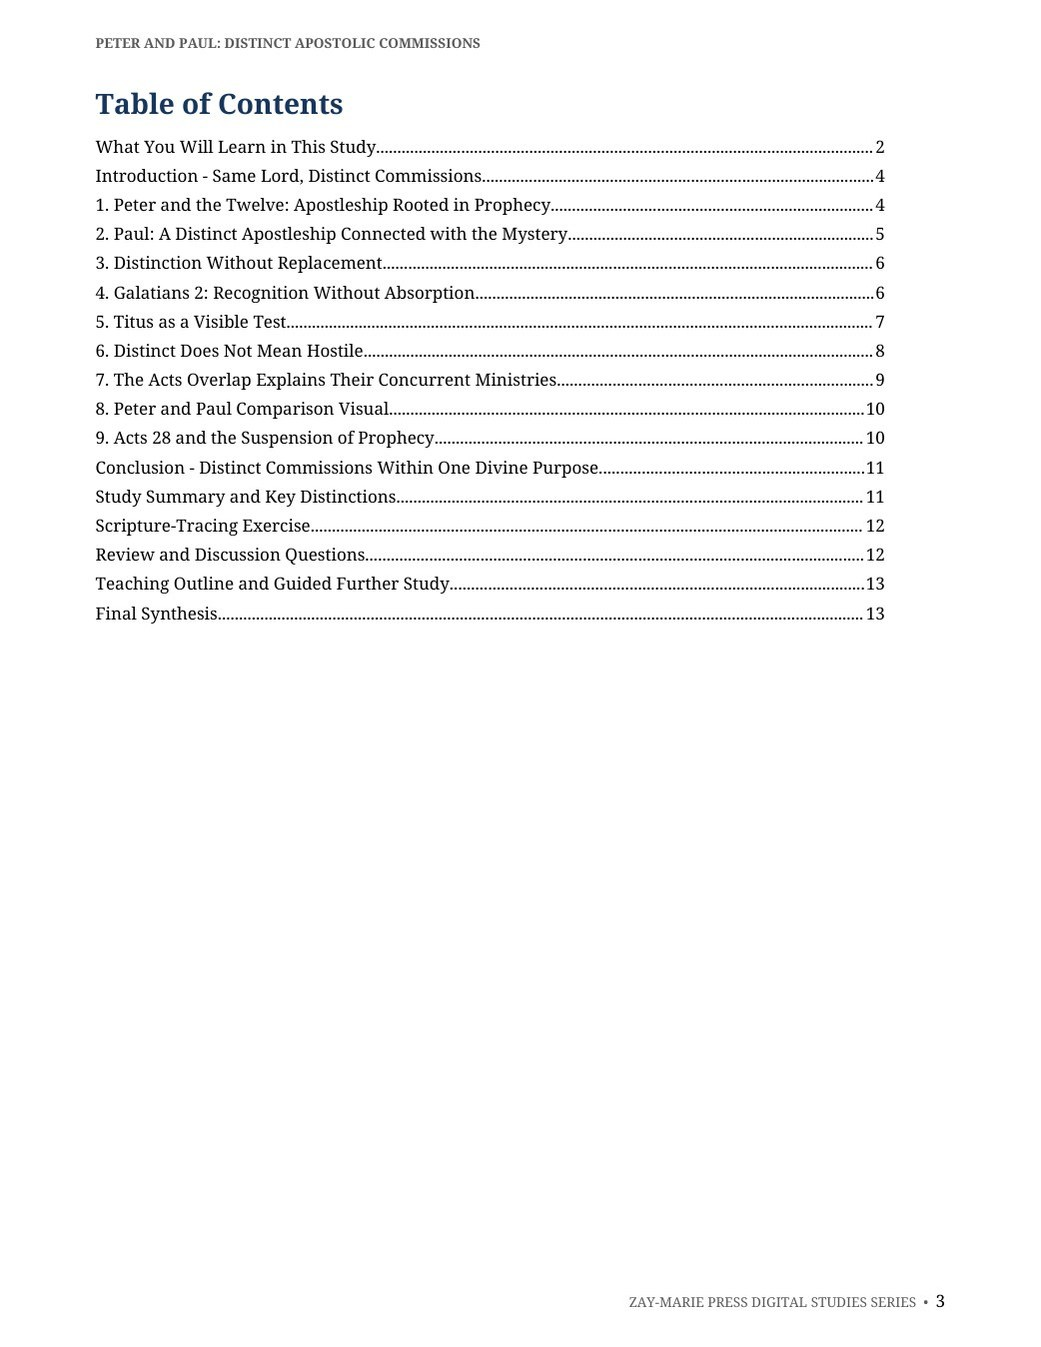
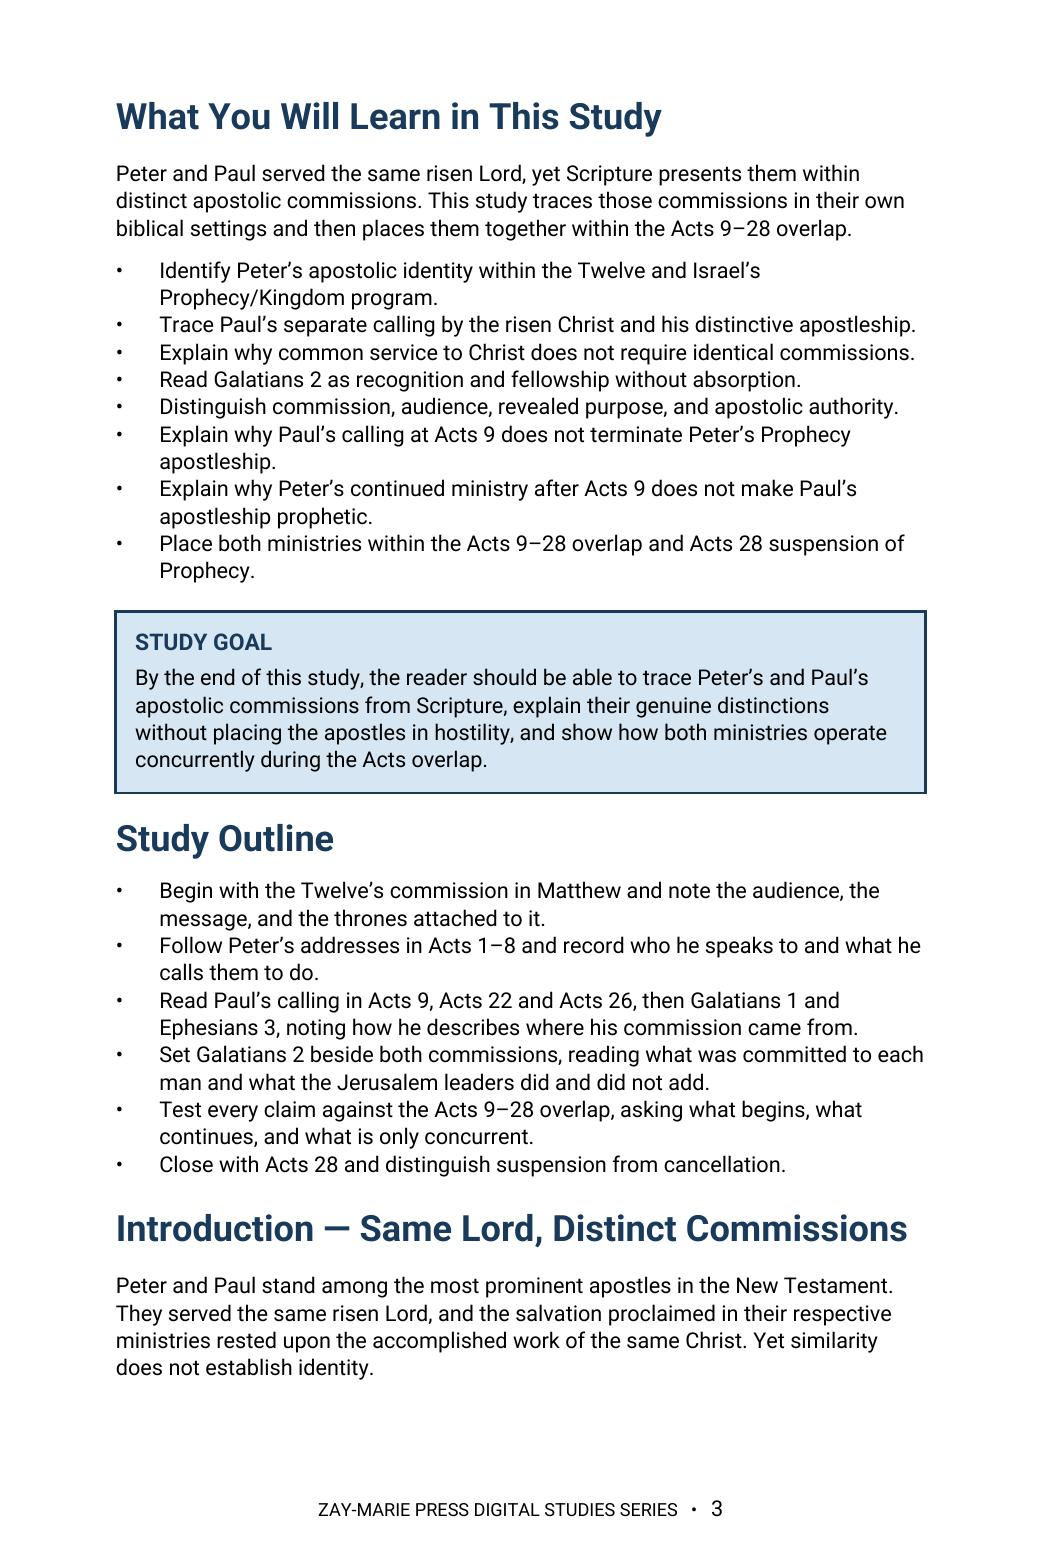
Study 18: rebuild to Master Standard v1.30 (Roboto, 18 pages by publisher exception); cover title reduced 25%; preview strip re-cut to three cards; site.js page count 18; tracker v1.42
Claude-Session: https://claude.ai/code/session_01TLNFW47XCW6YAMUxScR3v4

diff --git a/study-18-peter-and-paul-distinct-apostolic-commissions.html b/study-18-peter-and-paul-distinct-apostolic-commissions.html
@@ -647,39 +647,7 @@
           <p class="preview-instruction">
             Click any page to enlarge it for reading.
           </p>
-          <div class="preview-grid">
-            <div class="preview-card"><a class="preview-image-link" data-preview-lightbox href="assets/study-18-page-3.jpg"><img src="assets/study-18-page-3.jpg" alt="Study 18 interior preview — page 3, table of contents"/></a><div class="page-no">Page 3</div><h3>Table of Contents</h3><p>See the full structure of the study, from the introduction through the final synthesis.</p></div><div class="preview-card">
-              <a
-                class="preview-image-link"
-                data-preview-lightbox
-                href="assets/study-18-page-2.jpg"
-                ><img
-                  src="assets/study-18-page-2.jpg"
-                  alt="Study 18 interior preview — page 2, What You Will Learn in This Study"
-              /></a>
-              <div class="page-no">Page 2</div>
-              <h3>What You Will Learn</h3>
-              <p>
-                Begin with the study’s governing distinctions and the questions
-                it will answer from Scripture.
-              </p>
-            </div><div class="preview-card">
-              <a
-                class="preview-image-link"
-                data-preview-lightbox
-                href="assets/study-18-page-5.jpg"
-                ><img
-                  src="assets/study-18-page-5.jpg"
-                  alt="Study 18 interior preview — page 5, Paul’s distinct apostleship"
-              /></a>
-              <div class="page-no">Page 5</div>
-              <h3>Paul’s Distinct Apostleship</h3>
-              <p>
-                Examine Paul’s calling, authority, and revealed stewardship from
-                the risen Lord.
-              </p>
-            </div>
-          </div>
+          <div class="preview-grid"><div class="preview-card"><a class="preview-image-link" data-preview-lightbox href="assets/study-18-page-2.jpg"><img src="assets/study-18-page-2.jpg" alt="Study 18 interior preview — page 2, table of contents"/></a><div class="page-no">Page 2</div><h3>Table of Contents</h3><p>See the full structure of the study, from the introduction through the final synthesis.</p></div><div class="preview-card"><a class="preview-image-link" data-preview-lightbox href="assets/study-18-page-3.jpg"><img src="assets/study-18-page-3.jpg" alt="Study 18 interior preview — page 3, what you will learn"/></a><div class="page-no">Page 3</div><h3>What You Will Learn</h3><p>See the skills and interpretive disciplines you will practice, plus the study goal and outline.</p></div><div class="preview-card"><a class="preview-image-link" data-preview-lightbox href="assets/study-18-page-6.jpg"><img src="assets/study-18-page-6.jpg" alt="Study 18 interior preview — page 6, Paul’s commission in three tellings"/></a><div class="page-no">Page 6</div><h3>Paul’s Commission in Three Tellings</h3><p>Compare the accounts in Acts 9, 22 and 26 side by side, working directly from the text.</p></div></div>
         </div>
       </section>
       <section class="detail-section">

diff --git a/site.js b/site.js
@@ -62,7 +62,7 @@ const resourceModal=document.querySelector('#resource-modal'), resourceModalTitl
 if(resourceModal&&resourceModalTriggers.length){const closeResourceModal=()=>{resourceModal.hidden=true;document.body.classList.remove('resource-modal-open');lastResourceTrigger?.focus();};resourceModalTriggers.forEach(trigger=>trigger.addEventListener('click',()=>{lastResourceTrigger=trigger;if(resourceModalTitle)resourceModalTitle.textContent=trigger.dataset.title||'Resource';if(resourceModalDescription)resourceModalDescription.textContent=trigger.dataset.description||'';if(resourceModalLink){resourceModalLink.href=trigger.dataset.href||'#';resourceModalLink.textContent=trigger.dataset.linkText||'OPEN RESOURCE';}resourceModal.hidden=false;document.body.classList.add('resource-modal-open');resourceModalClose?.focus();}));resourceModalClose?.addEventListener('click',closeResourceModal);resourceModal.addEventListener('click',e=>{if(e.target===resourceModal)closeResourceModal();});document.addEventListener('keydown',e=>{if(e.key==='Escape'&&!resourceModal.hidden)closeResourceModal();});}
 
 /* Display the verified final-PDF page count at the primary purchase decision point. */
-const digitalStudyPageCounts={1:14,2:14,3:18,4:18,5:16,6:16,7:16,8:16,9:16,10:23,11:15,12:14,13:18,14:15,15:16,16:16,17:18,18:13,19:13,20:13,21:14,22:15,23:15,24:13,25:13,26:17,27:15,28:14,29:13,30:17,31:17,32:14,33:15,34:16,35:15,36:15,37:15,38:16,39:16,40:15,41:15,42:15,43:17,44:15,45:15,46:15,47:16,48:15,49:14,50:14,51:15,52:15,53:15,54:15,55:16,56:16,61:16,62:16,63:16,64:16,65:16,66:16,67:16,68:16,69:16,70:16,71:16};
+const digitalStudyPageCounts={1:14,2:14,3:18,4:18,5:16,6:16,7:16,8:16,9:16,10:23,11:15,12:14,13:18,14:15,15:16,16:16,17:18,18:18,19:13,20:13,21:14,22:15,23:15,24:13,25:13,26:17,27:15,28:14,29:13,30:17,31:17,32:14,33:15,34:16,35:15,36:15,37:15,38:16,39:16,40:15,41:15,42:15,43:17,44:15,45:15,46:15,47:16,48:15,49:14,50:14,51:15,52:15,53:15,54:15,55:16,56:16,61:16,62:16,63:16,64:16,65:16,66:16,67:16,68:16,69:16,70:16,71:16};
 const digitalStudyMatch=window.location.pathname.match(/\/study-(\d+)-/i);
 const digitalStudyFormat=document.querySelector('.detail-hero .detail-format');
 if(digitalStudyMatch&&digitalStudyFormat){const studyNumber=Number(digitalStudyMatch[1]),pageCount=digitalStudyPageCounts[studyNumber];if(pageCount)digitalStudyFormat.textContent=`Digital PDF · ${pageCount} Pages`;}

diff --git a/controlling-documents/Digital_Studies_PAM_Audit_v1.42.md b/controlling-documents/Digital_Studies_PAM_Audit_v1.42.md
@@ -1,8 +1,8 @@
-# Digital Studies vs. PAM Audit — v1.41
+# Digital Studies vs. PAM Audit — v1.42
 
 Working tracker and instructions for checking the Digital Studies against the Program Assignment Manual (PAM), §XIX of `Framework_Control_Document_Acts_Overlap.docx`, including its "Section 4 — Publisher Rulings". Same `_vX.Y` convention as the other controlling documents: update the status table and changelog as the audit proceeds, bump the version, and rename the file to match.
 
-Status: IN PROGRESS (batch method, see "Working method"). Website-text pass done for all 71 studies. Interior PDFs read in full: 46 of 71 (45 before 2026-09-30 evening, plus Study 1). Keyword sweep with flagged passages read, not a full read: 10, 41, 43, 44. Conflicts found and fixed: 9, 35, 42, 49, 50, 52. Still unread: 2, 3, 6, 8, 15, 17, 22, 24, 27, 30, 31, 32, 33, 39, 47, 51, 53, 54, 56, 67, 71 (21 studies; PDFs for 2, 3, 6 and 8 received 2026-09-30). Batch 1 (Studies 1-15) COMPLETE as of 2026-10-01: every study read against the PAM/Framework and rebuilt or re-cut to the Master Standard and pushed (Studies 3, 4, 5 spacing re-cuts delivered, not pushed, by publisher decision). Batch 2 (Studies 16-30) in progress: Studies 16 and 17 done (2026-10-01).
+Status: IN PROGRESS (batch method, see "Working method"). Website-text pass done for all 71 studies. Interior PDFs read in full: 46 of 71 (45 before 2026-09-30 evening, plus Study 1). Keyword sweep with flagged passages read, not a full read: 10, 41, 43, 44. Conflicts found and fixed: 9, 35, 42, 49, 50, 52. Still unread: 2, 3, 6, 8, 15, 17, 22, 24, 27, 30, 31, 32, 33, 39, 47, 51, 53, 54, 56, 67, 71 (21 studies; PDFs for 2, 3, 6 and 8 received 2026-09-30). Batch 1 (Studies 1-15) COMPLETE as of 2026-10-01: every study read against the PAM/Framework and rebuilt or re-cut to the Master Standard and pushed (Studies 3, 4, 5 spacing re-cuts delivered, not pushed, by publisher decision). Batch 2 (Studies 16-30) in progress: Studies 16, 17 and 18 done (2026-10-01).
 
 ## Rules
 
@@ -67,7 +67,7 @@ Priority list (publisher's list):
 | 15 Faith and Works in James and Paul | Clear (rebuilt, publisher approved) | James 1:1 audience; Romans 3–4 not assigned (Framework silent); Acts 15 pointer only | James kept in the Prophecy setting; Paul's justification stated for the Body; one finished work of Christ preserved. |
 | 16 The Believer's Identity in Christ | Clear (rebuilt, publisher approved) | Rom 6:3 = Spirit baptism into the Body (Mystery), not water baptism; 1 Cor 12:13; Eph 2; Eph 1:10–12 deliberately not used; no John 14, Acts 10–11, Acts 15 or Rom 11:25 | PDF read: no wording conflicts. Expanded from 12 to 16 pages with six KJV exegetical sections. |
 | 17 The Abrahamic Covenant | Clear (rebuilt, publisher approved) | Framework and PAM silent on Genesis (text only); Acts 9–28 Overlap; Acts 28 suspension not abolition; Gal 3 not cited | PDF read: no wording conflicts. Publisher's Blessing box wording kept inside Genesis 22:18 ("Through Abraham's seed, blessing reaches every nation"); his suggested "Christ, salvation and grace" wording was not used because it imports the Gal 3 Seed identification and Mystery terms, and he approved the revision. |
-| 18 Peter and Paul: Distinct Apostolic Commissions | Clear | Acts 9–28 Overlap; Acts 15; Galatians 2:7 | |
+| 18 Peter and Paul: Distinct Apostolic Commissions | Clear (rebuilt, publisher approved) | Acts 1–8 Prophecy; Acts 9–28 Overlap; Acts 28 suspension not cancellation; Acts 15 only set aside, not assigned; Matthew text-only | PDF read, including the embedded comparison infographic: no wording conflicts. Expanded with KJV tables (Peter's addresses, Paul's three tellings, Ephesians 3, Galatians 1–2 order, 2 Peter 3:15–16); 18 pages by publisher exception. |
 | 19 The Jerusalem Council | Clear (PDF) | Acts 15 ruling (Overlap, not one program); Acts 10–11 ruling | PDF read: Acts 15 = recognition without absorption inside the Overlap; Acts 10 not assigned to the Body. |
 | 20 Understanding Acts 2:38 | Clear | Acts 2 details (Kingdom entry; Joel 2; not Spirit baptism into the Body) | |
 | 25 The Signs That Followed | Clear (Mark excluded) | Acts 1–8; Acts 9–28 | Only the Acts touchpoints checked. |
@@ -271,3 +271,4 @@ Study 15 PDF not yet supplied. Typography: none of Studies 2, 3, 6, 8 is in EB G
 - v1.39 (2026-10-01): Housekeeping, no study files changed. After the publisher asked about a Batch 1 status table that had been written partly from memory, the table was checked against the tracker and the git history and the stale rows were brought up to date: status header (Batch 1 complete), the status-table rows for Studies 1, 2/3/6/8/15, 4/5/7/11-14, 9 and 10, and the per-study rows for Studies 8, 9 and 11. Corrections to the earlier chat table: Study 11 was rebuilt and pushed (4a400ed), not only reviewed; Study 9's push was the preview strip re-cut (1075f6b) with the interior rebuild approved in v1.23, and its live check is still open. Study 8 TOC re-checked against the delivered final PDF: 26 of 26 entries have page numbers that match, no placeholder line. The live purchasable files are swapped by the publisher and are not in the repo, so they were not inspected.
 - v1.40 (2026-10-01): Study 16 (The Believer's Identity in Christ) read in full against the PAM and Framework from the publisher's PDF (14 pages; no DOCX): clear, no wording changes. Rebuilt in Roboto to Master Standard v1.30 and expanded from 12 to 16 pages (cover plus 15 interior) with six exegetical sections approved by the publisher (Ephesians 1:3–14 traced phrase by phrase; Romans 6 know, reckon, yield, with 6:3 read as Spirit baptism into the Body; Galatians 2:20 and Colossians 3:1–4; 1 Corinthians 12:12–27; the verbs quickened, raised, seated; hinge words between position and practice). Central Thesis moved off the "What You Will Learn" page. New cover from the publisher's artwork, title and subtitle at 75%. Five boxed callouts (three others became run-in paragraphs). Publisher approved ("i approve"); preview strip cut to three cards (pages 2, 3, 5), old previews removed, site.js count 16. Also recorded: the publisher confirmed Study 9 on his phone on 2026-10-01, closing that open item. Live check of Study 16 pending his phone.
 - v1.41 (2026-10-01): Study 17 (The Abrahamic Covenant) read in full against the PAM and Framework from the publisher's PDF (14 pages; no DOCX): clear, no wording changes (Genesis passages are Framework-silent so the text is reported only; Acts 9–28 Overlap and the Acts 28 suspension stated as in the Framework). Rebuilt in Roboto to Master Standard v1.30 at 18 pages (cover plus 17 interior; the publisher approved an exception to the 15-page rule so that no exegetical content would be cut). Eight callouts, five kept boxed (Study Goal, Interpretive Control, Covenant Certainty, Do Not Collapse the Covenants, Overlap Control). Central Thesis moved off the preview page; Study Outline drafted. Exegetical expansion in KJV: Genesis 12:1–3 phrase table, land-language build-up, Genesis 15:1–8 and Jeremiah 34:18 comparison, Genesis 17, confirmations table (Genesis 22, 26, 28), Leviticus 26:42–44, covenant memory (Exodus, Deuteronomy, Psalm 105), the blessing formula and Isaiah 2 / Zechariah 8. The text teaching map was replaced by a diagram (Abraham to Nation, Land and Blessing). New cover: the right-side animals' heads removed from the existing art, approved by the publisher. Preview strip cut to three cards (pages 2, 3, 5), old previews removed, site.js count 18. Live check pending his phone.
+- v1.42 (2026-10-01): Study 18 (Peter and Paul: Distinct Apostolic Commissions) read in full against the PAM and Framework from the publisher's PDF (v17, 13 pages; no DOCX) including the comparison infographic on page 10: clear, no wording changes. Rebuilt in Roboto to Master Standard v1.30 at 18 pages (cover plus 17 interior; the publisher approved an exception so the exegetical additions stay in; the source content alone is 16 pages). Thirteen callouts, five kept boxed (Study Goal, Interpretive Control, Recognition Without Absorption, The Acts Overlap, Final Doctrinal Principle); Study Outline drafted; Teaching Outline split from Guided Further Study; infographic reused. Added in KJV: Peter's addresses in Acts 1–8, Paul's commission in three tellings (Acts 9, 22, 26), Paul's stewardship in Ephesians 3:1–9, the order of Galatians 1:11–2:10, and how Peter speaks of Paul (2 Peter 3:15–16); the Matthew 10 and Galatians 2:7–9 tables were held back for length. Cover: gold title line "PETER AND PAUL" reduced 25% (publisher approved). Preview strip cut to three cards (pages 2, 3, 6), old previews removed, site.js count 18. Also recorded: the publisher confirmed on 2026-10-01 that Study 17 renders well on desktop and phone. Study 16 live check still unconfirmed. Study 18 live check pending his phone.
